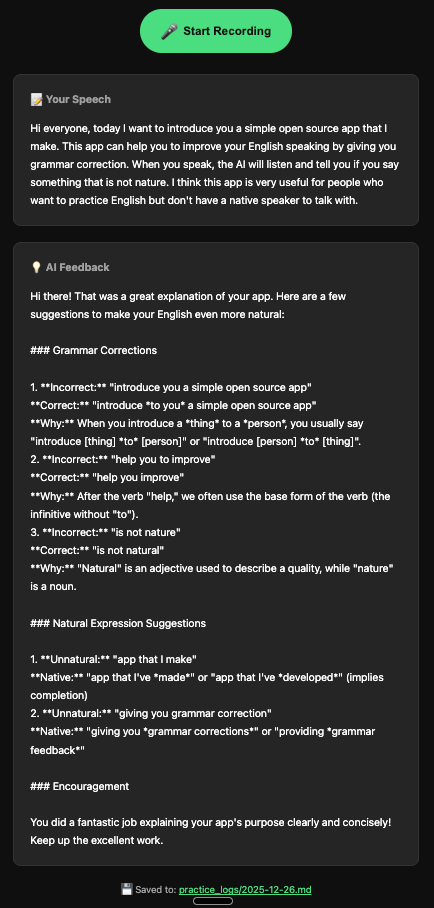
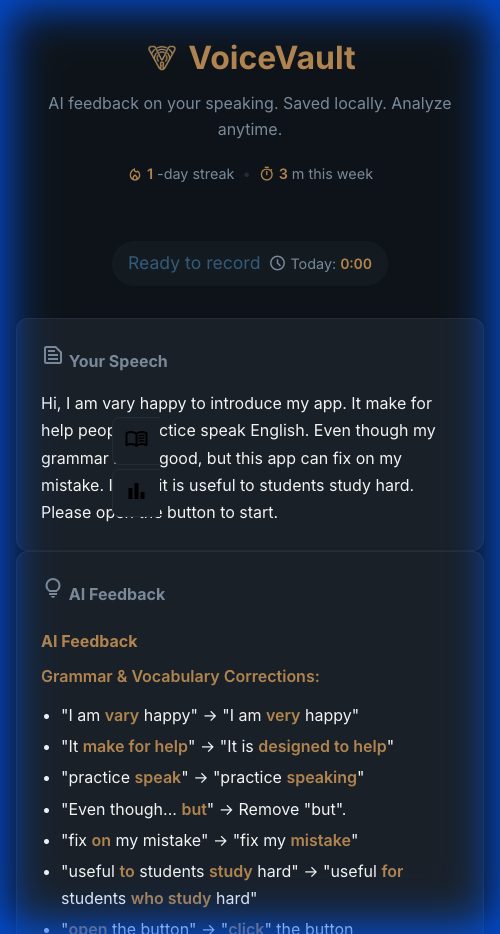
Docs: Update README with new screenshots and brand identity

diff --git a/README.md b/README.md
@@ -1,20 +1,39 @@
-# 🎙 VoiceVault
+# <img src="static/images/header-logo.png" width="36" align="middle"/> VoiceVault
 
 **AI feedback on your speaking. Saved locally. Analyze anytime.**
 
 A local-first English speaking practice app. Record yourself, get instant AI corrections, and own all your data as Markdown files.
 
+## 🎯 Visual Showcase
+
+### 1. Instant AI Feedback
+Direct, formatted corrections on your grammar, vocabulary, and naturalness.
+
+![AI Feedback Demo](static/screenshots/demo.png)
+
+### 2. Distraction-Free Recording
+Clean, dark-mode interface designed for focus.
+
 ![Main Interface](static/screenshots/main.png)
+
+### 3. Long-term Tracking
+GitHub-style heatmap and streak tracking to keep you motivated.
 
 ![Heatmap Stats](static/screenshots/heatmap.png)
 
-![AI Feedback Demo](static/screenshots/demo.png)
+---
+
 ## ✨ Features
 
 ### Core
 - 🎤 **Voice Recording** — Record directly in browser, no installs needed
-- 🤖 **AI Feedback** — Gemini 2.5 Flash (free tier) provides grammar corrections + natural expression suggestions
+- 🤖 **AI Feedback** — Gemini 2.5 Flash (free tier) provides **formatted Markdown feedback** with grammar corrections + natural expression suggestions
 - 📝 **Markdown Logs** — All sessions saved as local `.md` files （AI-friendly)
+
+### Experience
+- 🎨 **Distraction-Free UI** — Elegant dark mode with gold accents, designed for focus (resembling a premium blog aesthetic)
+- ⚡ **Low Friction** — "Ready to record" in seconds, minimized clicks
+- 📱 **Responsive** — Works on desktop and tablet sizes
 
 ### Stats & Analytics
 - 🔥 **Streak Tracking** — See your consecutive practice days
@@ -22,7 +41,7 @@ A local-first English speaking practice app. Record yourself, get instant AI cor
 - ⏱ **Practice Timer** — Live recording timer + daily totals
 
 ### Tools
-- 📖 **Dictionary Lookup** — Search definitions, phonetics, and play pronunciations
+- 📖 **Dictionary Lookup** — Search definitions, phonetics, and play pronunciations (Side Panel)
 - 💾 **One-Click Open** — Click "Saved to" to open your logs folder
 
 ---
@@ -70,7 +89,7 @@ Get your free API key: https://aistudio.google.com/app/apikey
 python app.py
 ```
 
-Open http://localhost:5000 in your browser.
+Open http://localhost:5001 in your browser (default port might vary).
 
 **For development (with hot reload):**
 ```bash
@@ -87,6 +106,9 @@ VoiceVault/
 ├── requirements.txt    # Python dependencies
 ├── .env.example        # API key template
 ├── static/
+│   ├── images/         # Logos and icons
+│   ├── fonts/          # Self-hosted fonts (Material Symbols)
+│   ├── screenshots/    # README assets
 │   ├── index.html      # Frontend UI
 │   ├── style.css       # Styling
 │   └── script.js       # Recording + UI logic
@@ -115,6 +137,7 @@ Only transcripts are sent to Gemini API for feedback.
 | AI Feedback | [Google Gemini](https://ai.google.dev/) |
 | Backend | Flask (Python) |
 | Frontend | Vanilla HTML/CSS/JS |
+| Formatting | [marked.js](https://marked.js.org/) |
 | Dictionary | [Free Dictionary API](https://dictionaryapi.dev/) |
 
 ---
